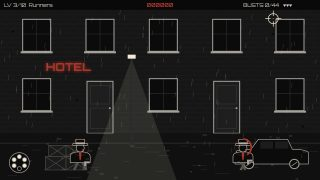
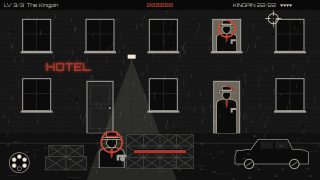
Give Midnight Alley three levels and a case-closed ending (hi3)
Claude-Session: https://claude.ai/code/session_016R86i3evNakTHXcnyVkEfD

diff --git a/internal/generator/templates/themes/noir/game.js b/internal/generator/templates/themes/noir/game.js
@@ -11,10 +11,12 @@
  * On a phone a tap on the alley aims and fires in one go, the pad's stick
  * moves the crosshair for those who prefer it (A fires) and B reloads.
  *
- * Each level adds something: back doors, runners crossing the street, the
- * informant and cover pop-ups, hostage shields, power cuts, drive-by cars,
- * two-hit heavies, a storm with everything, and the Kingpin behind a
- * barricade.
+ * Three levels: First Watch (windows and doors, gangsters and civilians),
+ * Drive-By (runners crossing the street, the informant, cover pop-ups,
+ * hostage shields and drive-by cars) and The Kingpin (a stormy night with
+ * power cuts and two-hit heavies while the Kingpin leans out of his
+ * barricade). Clearing him closes the case: the ending is the rainy alley
+ * with the file stamped CLOSED in red.
  */
 (function () {
     'use strict';
@@ -47,7 +49,7 @@
         { x: 300, y: 244, w: 78, h: 156, type: 'd', from: 'left' }, { x: 680, y: 244, w: 78, h: 156, type: 'd', from: 'right' },
         { x: 198, y: 356, w: 84, h: 80, type: 'c', from: 'bottom' }, { x: 818, y: 338, w: 84, h: 80, type: 'c', from: 'bottom' }
     ];
-    // The three places the Kingpin leans out of his barricade (level 10).
+    // The three places the Kingpin leans out of his barricade (level 3).
     var BOSS_SLOTS = [
         { x: 480, y: 338, w: 110, h: 66, type: 'b', from: 'bottom' },
         { x: 335, y: 392, w: 90, h: 112, type: 'b', from: 'right' },
@@ -71,29 +73,20 @@
     // quota: gangsters to bust; max: targets at once; draw: seconds before a
     // gangster fires; gap: seconds between spawns; mix: spawn weights.
     //
-    // The gap shrinks only a little from level to level, on purpose. Aiming
-    // and firing takes a player close to a second per target, so a gap near
-    // one second is already a queue that barely drains: measured with a bot
-    // of 0.3 s reaction, a gap of 0.7-0.9 s cost a quick player nothing and a
-    // slightly slower one every life in twenty seconds. So the gaps stay well
-    // above a casual player's second per target (1.3 s and more) and the
-    // draws near three seconds: a player who needs 0.9 s per target and
-    // misses now and then clears level 10 most of the time, and one a little
-    // slower still about every other time. The levels get harder through
-    // shorter draws, more targets at once and nastier kinds; levels 8 and 10
-    // get a longer gap than their neighbours because heavies and the Kingpin
-    // take extra shots. The quotas are sized for levels of about 60-90 s.
+    // Aiming and firing takes a player close to a second per target, so a
+    // gap near one second is already a queue that barely drains: measured
+    // with a bot of 0.3 s reaction, a gap of 0.7-0.9 s cost a quick player
+    // nothing and a slightly slower one every life in twenty seconds. So the
+    // gaps stay well above a casual player's second per target (1.35 s and
+    // more) and the draws near three seconds. The levels get harder through
+    // shorter draws, more targets at once and nastier kinds, not a faster
+    // queue; the Kingpin's level gets the longest gap because heavies and
+    // the Kingpin himself take extra shots. Quotas are sized for about a
+    // minute of play each.
     var LEVELS = [
-        { quota: 34, max: 1, draw: 3.4, gap: 1.5, slots: 'w', mix: { thug: 8, civ: 2 } },
-        { quota: 40, max: 2, draw: 3.2, gap: 1.45, slots: 'wd', mix: { thug: 8, civ: 3 } },
-        { quota: 44, max: 2, draw: 3.0, gap: 1.4, slots: 'wd', mix: { thug: 6, civ: 2, runner: 3 } },
-        { quota: 44, max: 2, draw: 2.9, gap: 1.4, slots: 'wdc', mix: { thug: 7, civ: 2, runner: 2, informant: 3 } },
-        { quota: 46, max: 3, draw: 2.9, gap: 1.35, slots: 'wdc', mix: { thug: 5, civ: 2, runner: 2, informant: 1, hostage: 4 } },
-        { quota: 46, max: 3, draw: 3.0, gap: 1.35, slots: 'wdc', dark: true, mix: { thug: 7, civ: 3, runner: 2, informant: 1, hostage: 2 } },
-        { quota: 48, max: 3, draw: 2.75, gap: 1.3, slots: 'wdc', mix: { thug: 6, civ: 2, runner: 2, informant: 1, hostage: 2, car: 3 } },
-        { quota: 48, max: 4, draw: 2.9, gap: 1.55, slots: 'wdc', mix: { thug: 5, civ: 2, runner: 2, informant: 1, hostage: 2, car: 2, heavy: 4 } },
-        { quota: 52, max: 4, draw: 2.8, gap: 1.45, slots: 'wdc', dark: true, mix: { thug: 5, civ: 2, runner: 2, informant: 1, hostage: 2, car: 2, heavy: 3, paperboy: 2 } },
-        { quota: 0, max: 2, draw: 2.9, gap: 1.75, slots: 'wd', boss: 24, mix: { thug: 6, civ: 2, runner: 2, hostage: 2 } }
+        { quota: 34, max: 2, draw: 3.4, gap: 1.5, slots: 'wd', mix: { thug: 8, civ: 3 } },
+        { quota: 40, max: 3, draw: 3.0, gap: 1.4, slots: 'wdc', mix: { thug: 5, civ: 2, runner: 3, informant: 2, hostage: 3, car: 2, paperboy: 1 } },
+        { quota: 0, max: 3, draw: 2.9, gap: 1.6, slots: 'wdc', dark: true, boss: 22, mix: { thug: 5, civ: 2, runner: 2, hostage: 2, heavy: 3 } }
     ];
 
     // ------------------------------------------------------------------
@@ -145,7 +138,8 @@
     function makeRain(level, mobile) {
         var drops = [];
         // At phone scale dense rain hides the gun and newspaper silhouettes.
-        var count = mobile ? 48 + level * 4 : 90 + level * 12;
+        // The rain thickens towards the Kingpin's storm.
+        var count = mobile ? 44 + level * 8 : 60 + level * 36;
         for (var i = 0; i < count; i++) {
             drops.push({ x: G.rnd(0, W), y: G.rnd(G.HUD, H), v: G.rnd(620, 900), land: G.rnd(GROUND + 4, H) });
         }
@@ -166,7 +160,7 @@
             boss: cfg.boss ? { hp: cfg.boss, max: cfg.boss, wait: 2.2, last: -1 } : null,
             cx: W / 2, cy: 250, vx: 0, vy: 0, steering: false, lock: null, lastMx: G.mouse.x, lastMy: G.mouse.y, hovered: false,
             ammo: CHAMBERS, reload: 0, cool: 0, kick: 0, muzzle: 0, spin: 0, reloadFull: RELOAD_TIME,
-            holes: [], rain: makeRain(level, mobile), splashes: makeSplashes(), splashI: 0, wind: -40 - level * 16,
+            holes: [], rain: makeRain(level, mobile), splashes: makeSplashes(), splashI: 0, wind: -30 - level * 30,
             boltIn: G.rnd(4, 9), bolt: 0, dim: 0, wasDark: false, stepT: 0
         };
     }
@@ -1105,6 +1099,79 @@
         drawCrosshair(ctx, s);
     }
 
+    // ------------------------------------------------------------------
+    // The ending: case closed
+    // ------------------------------------------------------------------
+
+    // Rain over the last frame of the alley, a case file on the left that
+    // gets stamped CLOSED in red, and the Kingpin's red-banded hat in a
+    // puddle on the right whose ripples keep spreading.
+    function endingRain(e) {
+        if (!e.data.rain) {
+            e.data.rain = [];
+            for (var i = 0; i < 70; i++) e.data.rain.push({ x: (i * 197) % W, y: (i * 89) % H, v: 560 + (i * 37) % 300 });
+        }
+        return e.data.rain;
+    }
+
+    function drawEndingRain(ctx, e) {
+        ctx.strokeStyle = 'rgba(216,209,196,0.35)'; ctx.lineWidth = 1;
+        ctx.beginPath();
+        endingRain(e).forEach(function (d) {
+            var y = G.HUD + 16 + (d.y + e.t * d.v) % (H - G.HUD - 16), x = (d.x - e.t * 90 % W + W) % W;
+            ctx.moveTo(x, y); ctx.lineTo(x + 2, y - 16);
+        });
+        ctx.stroke();
+    }
+
+    function drawCaseFile(ctx, e) {
+        ctx.save();
+        ctx.translate(120, 300); ctx.rotate(-0.12);
+        ctx.fillStyle = '#c9b993'; ctx.strokeStyle = FOG; ctx.lineWidth = 2;
+        ctx.beginPath(); ctx.rect(-80, -60, 160, 120); ctx.rect(-80, -74, 60, 16); ctx.fill(); ctx.stroke();
+        ctx.fillStyle = '#6e6450';
+        for (var i = 0; i < 4; i++) ctx.fillRect(-62, -36 + i * 14, i ? 100 : 60, 4);
+        // The stamp comes down hard half a second in, then stays.
+        var k = G.clamp((e.t - 0.5) / 0.15, 0, 1);
+        if (k > 0) {
+            ctx.globalAlpha = k;
+            ctx.rotate(-0.25); ctx.scale(2.2 - 1.2 * k, 2.2 - 1.2 * k);
+            ctx.strokeStyle = HOT; ctx.lineWidth = 4;
+            ctx.strokeRect(-70, 4, 140, 40);
+            G.text('CLOSED', 0, 36, { size: 32, bold: true, color: HOT, align: 'center' });
+        }
+        ctx.restore();
+    }
+
+    function drawPuddleHat(ctx, e) {
+        var x = 840, y = 330;
+        // A red glow pulses over the street, like the hotel sign coming back on.
+        var glow = ctx.createRadialGradient(x, y, 10, x, y, 110);
+        glow.addColorStop(0, BLOOD); glow.addColorStop(1, 'rgba(169,55,43,0)');
+        ctx.globalAlpha = 0.35 + 0.2 * Math.sin(e.t * 3);
+        ctx.fillStyle = glow;
+        ctx.fillRect(x - 110, y - 110, 220, 220);
+        ctx.globalAlpha = 1;
+        ctx.strokeStyle = 'rgba(216,209,196,0.45)'; ctx.lineWidth = 1.5;
+        ctx.beginPath();
+        for (var i = 0; i < 3; i++) {
+            var r = ((e.t * 40 + i * 30) % 90) + 10;
+            ctx.moveTo(x + r, y + 14); ctx.ellipse(x, y + 14, r, r * 0.25, 0, 0, TAU);
+        }
+        ctx.stroke();
+        ctx.save();
+        ctx.translate(x - 4, y - 8); ctx.rotate(0.2); ctx.scale(1.6, 1.6);
+        setPaint(ctx, true);
+        drawHat(ctx, BLOOD);
+        ctx.restore();
+    }
+
+    function drawEnding(e, ctx) {
+        drawEndingRain(ctx, e);
+        drawCaseFile(ctx, e);
+        drawPuddleHat(ctx, e);
+    }
+
     function hud(s) {
         if (s.boss) return 'KINGPIN ' + s.boss.hp + '/' + s.boss.max;
         return 'BUSTS ' + s.busts + '/' + s.cfg.quota;
@@ -1119,7 +1186,7 @@
             'Keys or pad: let go of the arrows near a gangster to lock on',
             'Black with a red tie: shoot · pale: hold your fire · ' + LIFE_STREAK + ' busts in a row: extra life'
         ],
-        levelNames: ['First Watch', 'Back Doors', 'Runners', 'The Informant', 'Human Shields', 'Lights Out', 'Drive-By', 'Heavy Hitters', 'The Long Rain', 'The Kingpin'],
+        levelNames: ['First Watch', 'Drive-By', 'The Kingpin'],
         colors: { bg: FOG, fg: INK, accent: BLOOD, dim: SILVER },
         lives: 4,
         cursor: 'none',
@@ -1139,6 +1206,12 @@
             arp: '......2.......1.',
             drums: { k: 'x.......x.......', s: '....x.......x...', h: 'x...x..xx...x..x' },
             leadWave: 'triangle', bassWave: 'triangle', arpWave: 'sine', leadOct: 2
+        },
+        ending: {
+            title: 'CASE CLOSED',
+            text: 'The Kingpin is down. The rain washes the alley clean.',
+            colors: [BLOOD, HOT, LAMP, INK],
+            draw: drawEnding
         },
         init: init, update: update, draw: draw, hud: hud
     });

diff --git a/docs/games.md b/docs/games.md
@@ -580,10 +580,16 @@ A rainy alley front: windows, doors, a parked car. Gangsters pop out and take
 aim (a visible draw timer); shoot them before they fire. Civilians and the
 informant also appear — shooting one costs a life. Mouse moves the crosshair
 (keyboard: arrows move it, `SPACE` shoots), `X` or right click reloads the
-six-shot revolver. Hit the level's quota to clear it. Levels: faster draws,
-more simultaneous targets, runners crossing the street, hostage shields,
-drive-by cars, level 10 is the boss behind cover. Mostly black and white with
-one red accent, rain particles, slow blues music with a walking bass.
+six-shot revolver (an empty click reloads too, slower). Twelve busts in a row
+earn a life. Levels: 1 *First Watch* — windows and doors, gangsters and
+civilians, 34 busts; 2 *Drive-By* — runners and paperboys crossing the street, the
+informant, cover pop-ups, hostage shields and drive-by cars, 40 busts; 3 *The
+Kingpin* — a storm with power cuts and two-hit heavies while the Kingpin
+leans out of his barricade on three sides until 22 hits bring him down.
+Ending: *CASE CLOSED* — rain over the alley, the case file stamped CLOSED in
+red and the Kingpin's hat in a rippling puddle under red fireworks. Mostly
+black and white with one red accent, rain particles, slow blues music with a
+walking bass.
 
 ### nukem — Nukem Time (run'n'gun platformer)
 Side-scrolling tile levels (use `G.tileMove`). `← →` run, `↑` jump, `SPACE`
